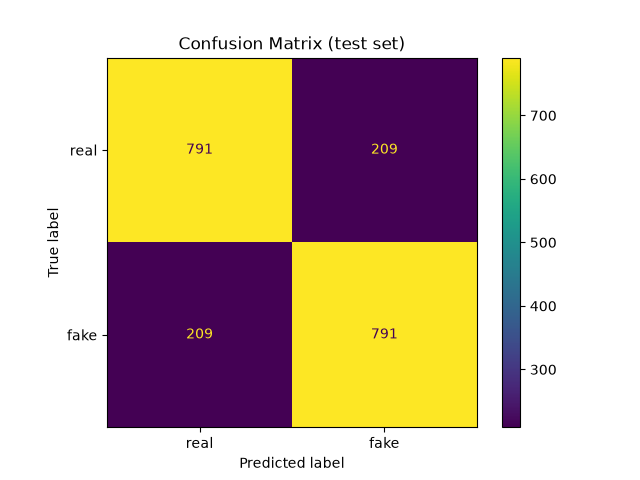
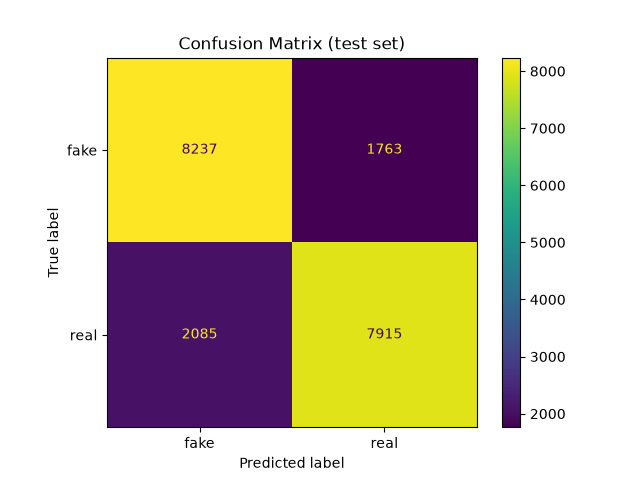
Train on full 140k dataset with corrected label convention
Fix label mapping to match the dataset's own convention (1=real,
0=fake) instead of the inverted one used before. Also drop the 20k
subsampling and train/evaluate on the full 100k/20k/20k split,
improving test accuracy from 79.1% to 80.8% and ROC-AUC from 0.866
to 0.889.

diff --git a/src/download_data.py b/src/download_data.py
@@ -1,8 +1,8 @@
 """Download the 140k Real and Fake Faces dataset from Kaggle and build a
-stratified subset manifest for faster iteration on a laptop GPU."""
+manifest CSV covering the full dataset (labels matching the dataset's own
+convention: 1 = real, 0 = fake)."""
 
 import csv
-import random
 import subprocess
 import zipfile
 from pathlib import Path
@@ -10,10 +10,6 @@ from pathlib import Path
 DATASET = "xhlulu/140k-real-and-fake-faces"
 DATA_DIR = Path(__file__).resolve().parent.parent / "data"
 ZIP_PATH = DATA_DIR / "140k-real-and-fake-faces.zip"
-
-# Per-split cap on the number of images to keep in the subset manifest.
-SUBSET_CAPS = {"train": 16000, "valid": 2000, "test": 2000}
-SEED = 42
 
 
 def download_and_extract() -> Path:
@@ -42,22 +38,18 @@ def download_and_extract() -> Path:
     return root
 
 
-def build_subset_manifest(root: Path) -> None:
-    rng = random.Random(SEED)
+def build_manifest(root: Path) -> None:
     manifest_path = DATA_DIR / "subset_manifest.csv"
 
     rows = []
-    for split, cap in SUBSET_CAPS.items():
+    for split in ("train", "valid", "test"):
         split_dir = root / split
-        for label_name, label in (("real", 0), ("fake", 1)):
+        for label_name, label in (("real", 1), ("fake", 0)):
             class_dir = split_dir / label_name
             paths = sorted(class_dir.glob("*.jpg")) + sorted(class_dir.glob("*.png"))
-            rng.shuffle(paths)
-            # Split the cap evenly between the two classes.
-            take = paths[: cap // 2]
-            for p in take:
+            for p in paths:
                 rows.append((str(p), label, split))
-            print(f"{split}/{label_name}: kept {len(take)} of {len(paths)}")
+            print(f"{split}/{label_name}: {len(paths)} images")
 
     with open(manifest_path, "w", newline="") as f:
         writer = csv.writer(f)
@@ -69,4 +61,4 @@ def build_subset_manifest(root: Path) -> None:
 
 if __name__ == "__main__":
     dataset_root = download_and_extract()
-    build_subset_manifest(dataset_root)
+    build_manifest(dataset_root)

diff --git a/src/model.py b/src/model.py
@@ -5,7 +5,8 @@ from torchvision.models import ResNet18_Weights, resnet18
 def build_model(freeze_backbone: bool = True) -> nn.Module:
     """ResNet18 pretrained on ImageNet, with a single-logit binary head.
 
-    Labels are 0=real, 1=fake; use BCEWithLogitsLoss on the raw output.
+    Labels are 1=real, 0=fake (matches the dataset's own convention);
+    use BCEWithLogitsLoss on the raw output.
     """
     model = resnet18(weights=ResNet18_Weights.IMAGENET1K_V1)
 

diff --git a/src/evaluate.py b/src/evaluate.py
@@ -71,7 +71,7 @@ def main():
     CONFUSION_PLOT_PATH.parent.mkdir(parents=True, exist_ok=True)
 
     cm = confusion_matrix(all_labels, all_preds)
-    disp = ConfusionMatrixDisplay(cm, display_labels=["real", "fake"])
+    disp = ConfusionMatrixDisplay(cm, display_labels=["fake", "real"])
     disp.plot()
     plt.title("Confusion Matrix (test set)")
     plt.savefig(CONFUSION_PLOT_PATH)

diff --git a/README.md b/README.md
@@ -15,18 +15,19 @@ undocumented claim.
 ## Dataset
 
 [`xhlulu/140k-real-and-fake-faces`](https://www.kaggle.com/datasets/xhlulu/140k-real-and-fake-faces)
-— 140,002 face images: real photos from Flickr-Faces-HQ, fakes generated by
-StyleGAN. The dataset ships with its own `train/valid/test` split.
+— 140,000 face images: real photos from Flickr-Faces-HQ, fakes generated by
+StyleGAN. The dataset ships with its own `train/valid/test` split, balanced
+50/50 real vs. fake in every split (100,000 train / 20,000 valid /
+20,000 test). The full dataset is used — no subsampling. See
+`src/download_data.py`.
 
-For fast iteration on a laptop GPU, training used a stratified **20,000-image
-subset** (16,000 train / 2,000 valid / 2,000 test, balanced real/fake in
-each split). See `src/download_data.py`.
+Labels use the dataset's own convention: **1 = real, 0 = fake**.
 
 ## Model
 
 `torchvision.models.resnet18`, pretrained on ImageNet. The convolutional
 backbone is frozen; only a new `Linear(512, 1)` head is trained, with
-`BCEWithLogitsLoss` (binary: 0 = real, 1 = fake). See `src/model.py`.
+`BCEWithLogitsLoss` (binary: 1 = real, 0 = fake). See `src/model.py`.
 
 ## Training
 
@@ -41,37 +42,34 @@ Loss/accuracy per epoch (`outputs/history.json`):
 
 | Epoch | Train Loss | Train Acc | Val Loss | Val Acc |
 |-------|-----------|-----------|----------|---------|
-| 1 | 0.537 | 0.728 | 0.501 | 0.758 |
-| 2 | 0.486 | 0.766 | 0.446 | 0.801 |
-| 3 | 0.460 | 0.785 | 0.436 | 0.801 |
-| 4 | 0.456 | 0.785 | 0.425 | 0.813 |
-| 5 | 0.447 | 0.789 | 0.430 | 0.801 |
-| 6 | 0.451 | 0.789 | 0.438 | 0.803 |
-| **7** | 0.443 | 0.796 | 0.416 | **0.819** (best) |
-| 8 | 0.442 | 0.792 | 0.417 | 0.812 |
+| 1 | 0.479 | 0.771 | 0.435 | 0.798 |
+| 2 | 0.445 | 0.793 | 0.423 | 0.805 |
+| 3 | 0.438 | 0.798 | 0.423 | 0.805 |
+| 4 | 0.434 | 0.800 | 0.421 | 0.807 |
+| 5 | 0.434 | 0.799 | 0.420 | 0.810 |
+| **6** | 0.431 | 0.800 | 0.417 | **0.811** (best) |
+| 7 | 0.432 | 0.801 | 0.432 | 0.803 |
+| 8 | 0.433 | 0.799 | 0.416 | 0.809 |
 
 ## Test Set Results
 
-Evaluated once, on the held-out 2,000-image test split, using the epoch-7
-checkpoint (`outputs/metrics.json`, `src/evaluate.py`):
+Evaluated once, on the full held-out 20,000-image test split, using the
+epoch-6 checkpoint (`outputs/metrics.json`, `src/evaluate.py`). "Positive"
+class is 1 = real, per the dataset's convention:
 
 | Metric | Value |
 |--------|-------|
-| Accuracy | 0.791 |
-| Precision | 0.791 |
-| Recall | 0.791 |
-| F1 | 0.791 |
-| ROC-AUC | 0.866 |
+| Accuracy | 0.808 |
+| Precision | 0.818 |
+| Recall | 0.792 |
+| F1 | 0.804 |
+| ROC-AUC | 0.889 |
 
 ![Confusion matrix on the test set](outputs/plots/confusion_matrix.png)
 ![ROC curve on the test set](outputs/plots/roc_curve.png)
 
 ## Honest limitations
 
-- Trained on a 20k-image subset, not the full 140k — likely leaves accuracy
-  on the table. Re-running `download_data.py` with higher `SUBSET_CAPS`
-  (or removing the cap) and re-running `train.py`/`evaluate.py` would use
-  more data.
 - Backbone is frozen (only the head is trained) — unfreezing and
   fine-tuning the full network for more epochs would likely improve
   results further, at the cost of longer training time.
